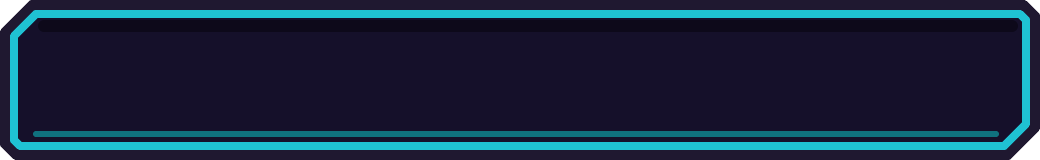
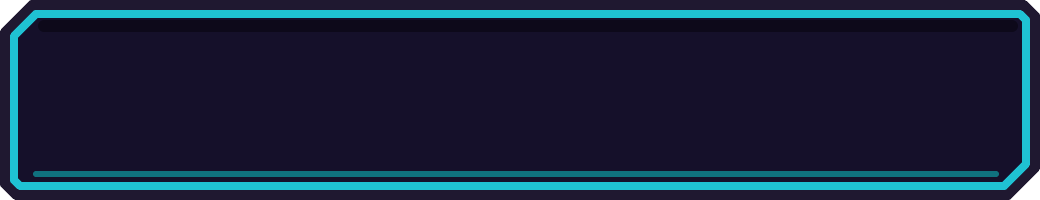
CodesScreen: taller code field (creator feedback), recaptured states

Changed region(s): [[0.0, 0.7812, 1.0, 0.9688], [0.0, 0.0, 1.0, 0.2188]]

diff --git a/docs/ui/screens/CodesScreen.md b/docs/ui/screens/CodesScreen.md
@@ -18,10 +18,10 @@ width (min 400×249, max 640×398 px), aspect 900:560. The REDEEM button sits **
 | `Panel.TitleBanner` / `Panel.Title` | ImageLabel / TextLabel | amethyst `panel/title_amethyst` banner, "CODES" (Denk One, cloned from the Inventory window) |
 | `Panel.Close` | TextButton | close diamond cloned from the other windows; TopbarController closes the screen on it |
 | `Panel.Content` | Frame | the dark inner pane; everything below lives here |
-| `Content.InputField` | Frame (aspect 6.5) | holds the field art |
+| `Content.InputField` | Frame (aspect 5.2) | holds the field art |
 | `InputField.Artwork` | ImageLabel | dark inset glass field (`field_inset`) |
 | `InputField.FocusOutline` | ImageLabel | aqua ring (`field_focus`), hidden; show it on `CodeInput.Focused`, hide on `FocusLost` |
-| `InputField.CodeInput` | **TextBox** | the code. `PlaceholderText = "Enter code…"`, `ClearTextOnFocus = false`, one line, centred, Nunito Heavy white, `TextScaled` with a max of 34. Attribute `TextFit = false` so TextFit never touches it. Read `.Text` on `FocusLost` or on redeem |
+| `InputField.CodeInput` | **TextBox** | the code. `PlaceholderText = "Enter code…"`, `ClearTextOnFocus = false`, one line, centred, Nunito Heavy white, `TextScaled` with a max of 40. Attribute `TextFit = false` so TextFit never touches it. Read `.Text` on `FocusLost` or on redeem |
 | `Content.RedeemButton` | TextButton | (under the field) green gem "REDEEM" (`button/gem_emerald`). Has the usual `Artwork`, `Label` (Denk One), `InteractionScale` parts |
 | `Content.Status` | TextLabel | one-line message slot. **Empty and `Visible = false`** by default |
 | `Content.Hint` | TextLabel | "Find codes in our group and socials!" (generic, no links) |
@@ -47,14 +47,14 @@ in `png`, uploads in `roblox_assets.json`. Decals were resolved to image ids wit
 | Key | Decal | Image id |
 |---|---|---|
 | `screens/codes/window_codes` (900×560, 2×) | 90013473722478 | 130439492899536 |
-| `screens/codes/field_inset` (520×80, 2×) | 84567967482821 | 98997316553457 |
-| `screens/codes/field_focus` | 133279075090658 | 99561576715408 |
+| `screens/codes/field_inset` (520×100, 2×) | see roblox_assets.json | 136336890541642 |
+| `screens/codes/field_focus` | see roblox_assets.json | 79664857485058 |
 
 Reused: `panel/title_amethyst`, `button/gem_emerald`, `button/close_diamond` + `icon/close_x` (through the cloned Close).
 
 ## Notes / not done
 
 - All positions and sizes are Scale; the Panel has a `UISizeConstraint` so it stays readable on small screens. The phone and
-  tablet scaling pass is still to do; at the 400 px minimum the field is about 284×44 px and the REDEEM gem about 151×43 px.
+  tablet scaling pass is still to do; at the 400 px minimum the field is about 284×55 px and the REDEEM gem about 151×43 px.
 - The window and field use Fit with their own aspect ratios (no 9-slice), so they need no `StainedAssetSpecs` entry.
 - The creator saves the place in Studio.

diff --git a/docs/logs/DEVLOG.md b/docs/logs/DEVLOG.md
@@ -46,6 +46,7 @@ Problems / questions for the user:
 ## 2026-10-19 — Claude — CodesScreen design (top bar menus)
 Done:
 - Designed `StarterGui.CodesScreen`: a small, short, wide Stained Glass window (CODES amethyst banner, Close diamond, dark inset `CodeInput` TextBox with an aqua `FocusOutline`, green `RedeemButton`, hidden `Status` line, hint line). Rebuild: `tools/studio/build_codes_screen.luau`.
+- Creator feedback 2: code field made taller (art 520×100, aspect 5.2 instead of 6.5; text max 40), REDEEM, Status and hint nudged down for breathing room; window unchanged. Recaptured.
 - Creator feedback: stacked the layout (code field on top, REDEEM gem centred under it, Status and hint below) in a taller 900×560 window (new `window_codes` art, ~30% of screen width); recaptured the three states.
 - New art `tools/ui/codes_art.mjs` → `assets/ui/screens/codes` (window and two field images), uploaded to group 11116787; keys in `UIAssets` (`screens/codes/*`). Captures and element map: `docs/ui/screens/CodesScreen.md`.
 Next:
